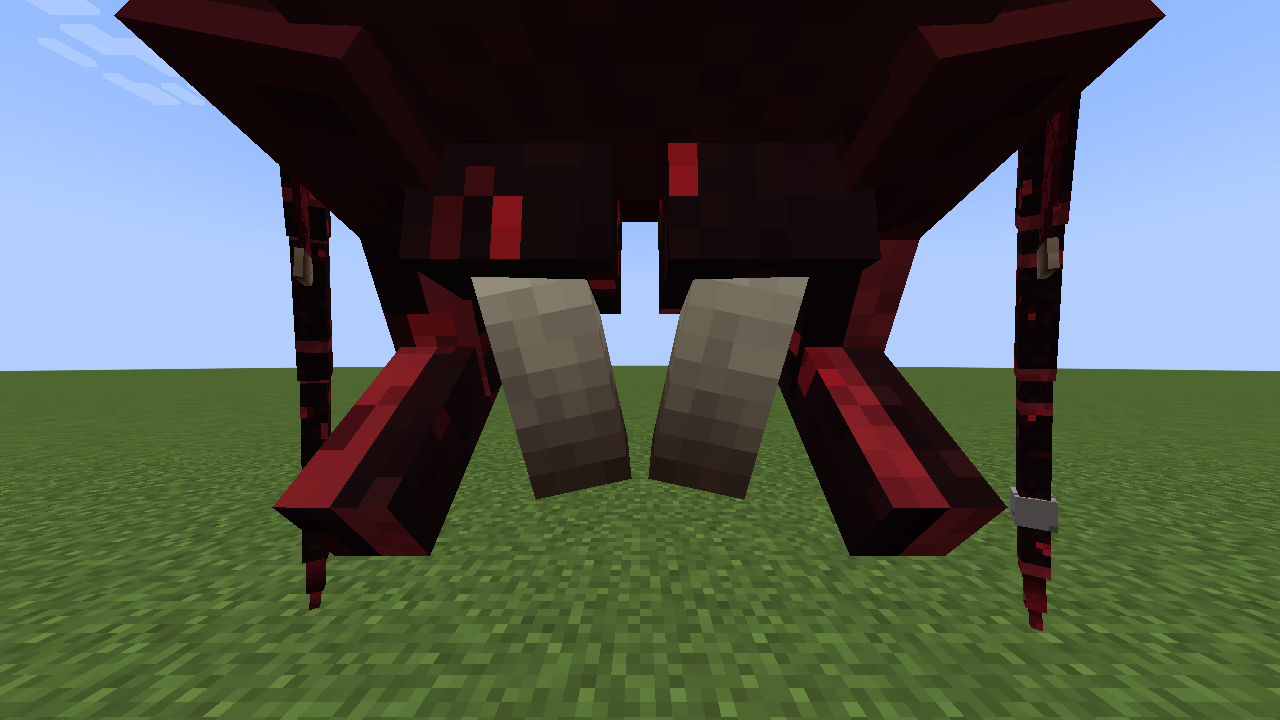
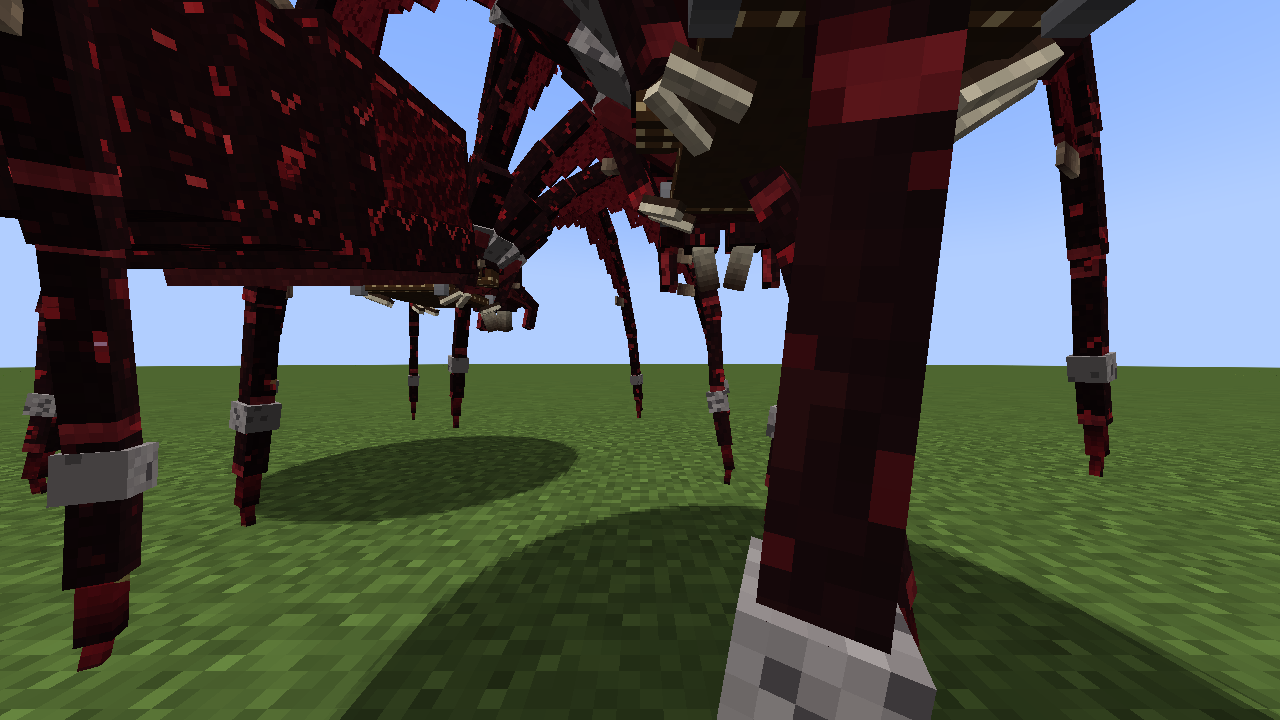
Rider can work from the mount: full-speed mining, clear view, camera bank
- Undo the airborne mining penalty for Gorewidow riders (BreakSpeed, both sides)
- First-person eye sits just ahead of the fangs; legs right next to the rider's eyes are hidden
  from their own first-person view
- Camera rolls with the mount's surface (max 50 degrees, smoothed), N toggles it
- Game test: rider mines stone at on-ground speed; wall-mining POV showcase scene

Claude-Session: https://claude.ai/code/session_016ZKLpemyHd6iPGbbrEQmMZ

diff --git a/src/main/java/com/vladosiwe/gorewidow/client/GorewidowClient.java b/src/main/java/com/vladosiwe/gorewidow/client/GorewidowClient.java
@@ -48,6 +48,10 @@ public final class GorewidowClient {
     public static final KeyMapping KEY_SLINGSHOT = new KeyMapping("key.gorewidow.slingshot", KeyConflictContext.IN_GAME, InputConstants.Type.KEYSYM, GLFW.GLFW_KEY_C, CATEGORY);
     public static final KeyMapping KEY_VISION = new KeyMapping("key.gorewidow.vision", KeyConflictContext.IN_GAME, InputConstants.Type.KEYSYM, GLFW.GLFW_KEY_V, CATEGORY);
     public static final KeyMapping KEY_STANCE = new KeyMapping("key.gorewidow.stance", KeyConflictContext.IN_GAME, InputConstants.Type.KEYSYM, GLFW.GLFW_KEY_B, CATEGORY);
+    public static final KeyMapping KEY_CAMERA_TILT = new KeyMapping("key.gorewidow.camera_tilt", KeyConflictContext.IN_GAME, InputConstants.Type.KEYSYM, GLFW.GLFW_KEY_N, CATEGORY);
+    private static boolean cameraTilt = true;
+    private static float cameraRoll;
+    private static long cameraRollTime;
     private static boolean lastSprint;
     private static boolean manualStance;
     private static boolean lastStance;
@@ -70,6 +74,7 @@ public final class GorewidowClient {
         NeoForge.EVENT_BUS.addListener(GorewidowClient::onRenderPlayerPre);
         NeoForge.EVENT_BUS.addListener(GorewidowClient::onRenderPlayerPost);
         NeoForge.EVENT_BUS.addListener(GorewidowClient::onCameraDistance);
+        NeoForge.EVENT_BUS.addListener(GorewidowClient::onCameraAngles);
         NeoForge.EVENT_BUS.addListener(GorewidowClient::onLogout);
         if (Boolean.getBoolean("gorewidow.showcase")) {
             com.vladosiwe.gorewidow.client.dev.DevShowcase.enable();
@@ -100,6 +105,7 @@ public final class GorewidowClient {
         event.register(KEY_SLINGSHOT);
         event.register(KEY_VISION);
         event.register(KEY_STANCE);
+        event.register(KEY_CAMERA_TILT);
     }
 
     /** Ranged weapons raise the rider into the weapon stance on their own. */
@@ -201,6 +207,11 @@ public final class GorewidowClient {
             while (KEY_STANCE.consumeClick()) {
                 manualStance = !manualStance;
             }
+            while (KEY_CAMERA_TILT.consumeClick()) {
+                cameraTilt = !cameraTilt;
+                player.displayClientMessage(net.minecraft.network.chat.Component.translatable(
+                        cameraTilt ? "message.gorewidow.camera_tilt_on" : "message.gorewidow.camera_tilt_off"), true);
+            }
             boolean stance = manualStance || isRangedWeapon(player.getMainHandItem()) || isRangedWeapon(player.getOffhandItem());
             if (stance != lastStance) {
                 lastStance = stance;
@@ -241,6 +252,7 @@ public final class GorewidowClient {
             lastStance = false;
             manualStance = false;
             while (KEY_STANCE.consumeClick()) { /* not riding */ }
+            while (KEY_CAMERA_TILT.consumeClick()) { /* not riding */ }
             if (!OUTLINED.isEmpty() && player != null) {
                 updateThreatOutlines(mc, player, false);
             }
@@ -347,6 +359,34 @@ public final class GorewidowClient {
         if (mc.player != null) {
             mc.player.playSound(net.minecraft.sounds.SoundEvents.NOTE_BLOCK_FLUTE.value(), 0.6F,
                     order == com.vladosiwe.gorewidow.network.WhistlePayload.Order.STAY ? 0.8F : 1.3F);
+        }
+    }
+
+    /**
+     * The rider's view banks with the mount: on a wall beside you the horizon tilts toward it, on a
+     * slope it leans with the body. Kept within 50 degrees so the view never flips; N turns it off.
+     */
+    private static void onCameraAngles(net.neoforged.neoforge.client.event.ViewportEvent.ComputeCameraAngles event) {
+        Minecraft mc = Minecraft.getInstance();
+        LocalPlayer player = mc.player;
+        float target = 0;
+        if (cameraTilt && player != null && mc.getCameraEntity() == player
+                && player.getVehicle() instanceof GorewidowEntity mount && !mount.isWeaponStance()) {
+            GorewidowRig rig = GorewidowRigs.peek(mount);
+            if (rig != null && rig.isInitialised()) {
+                float yaw = (float) event.getYaw() * Mth.DEG_TO_RAD;
+                Vec3 right = new Vec3(-Mth.cos(yaw), 0, -Mth.sin(yaw));
+                double side = Mth.clamp(rig.up().dot(right), -1, 1);
+                float lift = mount.getMountLift((float) event.getPartialTick());
+                target = Mth.clamp((float) Math.toDegrees(Math.asin(side)), -50, 50) * lift;
+            }
+        }
+        long now = net.minecraft.Util.getMillis();
+        float dt = Math.min(0.1F, (now - cameraRollTime) / 1000.0F);
+        cameraRollTime = now;
+        cameraRoll += (target - cameraRoll) * (1 - (float) Math.exp(-6.0F * dt));
+        if (Math.abs(cameraRoll) > 0.01F) {
+            event.setRoll(event.getRoll() + cameraRoll);
         }
     }
 

diff --git a/src/main/java/com/vladosiwe/gorewidow/client/dev/DevShowcase.java b/src/main/java/com/vladosiwe/gorewidow/client/dev/DevShowcase.java
@@ -174,6 +174,37 @@ public final class DevShowcase {
             c.player.moveTo(w.getX() + 1.5, w.getY(), w.getZ(), 0, 0);
             c.player.startRiding(w, true);
         }, c -> {}, new Vec3(0, 0, 0), new Vec3(0, 0, 0), true));
+        SCENES.add(new Scene("riding_wall_pov", 70, c -> {
+            // an ore wall: the rider hangs under the mount as it clings to it and mines with a pickaxe
+            c.fill(3, 0, -5, 3, 9, 5, Blocks.STONE.defaultBlockState());
+            c.fill(3, 2, -1, 3, 3, 1, Blocks.IRON_ORE.defaultBlockState());
+            c.fill(3, 4, 1, 3, 4, 2, Blocks.DIAMOND_ORE.defaultBlockState());
+            c.fill(3, 3, -3, 3, 4, -2, Blocks.COAL_ORE.defaultBlockState());
+            GorewidowEntity w = c.widow(1.55, 2.5, 0, 270);
+            w.setSurface(Direction.EAST);
+            c.player.setGameMode(GameType.SURVIVAL);
+            w.tame(c.player);
+            w.setHarness(true);
+            c.player.moveTo(w.getX() - 1.0, w.getY(), w.getZ(), 0, 0);
+            c.player.startRiding(w, true);
+            c.player.setItemInHand(net.minecraft.world.InteractionHand.MAIN_HAND,
+                    new net.minecraft.world.item.ItemStack(net.minecraft.world.item.Items.DIAMOND_PICKAXE));
+        }, c -> {
+            net.minecraft.client.player.LocalPlayer local = Minecraft.getInstance().player;
+            if (ticks % 10 == 0) {
+                GorewidowEntity sw = c.first();
+                net.minecraft.world.entity.Entity cw = Minecraft.getInstance().level == null ? null : Minecraft.getInstance().level.getEntity(sw.getId());
+                LOGGER.info("wallpov t={} server surface={} pos={} client surface={} pos={} riding={}", ticks, sw.getSurface(), sw.position(),
+                        cw instanceof GorewidowEntity g ? g.getSurface() : null, cw == null ? null : cw.position(), local == null ? null : local.getVehicle());
+            }
+            if (local != null) {
+                // looking along the wall at the ore, so the view banks with the mount
+                local.setYRot(-75);
+                local.setXRot(-5);
+                local.yRotO = -75;
+                local.xRotO = -5;
+            }
+        }, new Vec3(0, 0, 0), new Vec3(0, 0, 0), true));
         SCENES.add(new Scene("riding_pov", 30, c -> {
             GorewidowEntity w = c.widow(0, 0, 0, 0);
             c.player.setGameMode(GameType.CREATIVE);
@@ -592,7 +623,7 @@ public final class DevShowcase {
         sceneIndex = index;
         ticks = 0;
         Scene scene = SCENES.get(index);
-        mc.options.setCameraType(scene.thirdPerson() && !scene.name().equals("riding_pov") ? CameraType.THIRD_PERSON_BACK : CameraType.FIRST_PERSON);
+        mc.options.setCameraType(scene.thirdPerson() && !scene.name().endsWith("_pov") ? CameraType.THIRD_PERSON_BACK : CameraType.FIRST_PERSON);
         server.execute(() -> {
             ServerLevel level = server.overworld();
             ServerPlayer player = server.getPlayerList().getPlayers().get(0);

diff --git a/src/main/java/com/vladosiwe/gorewidow/client/GorewidowRig.java b/src/main/java/com/vladosiwe/gorewidow/client/GorewidowRig.java
@@ -437,9 +437,17 @@ public final class GorewidowRig {
         }
         net.minecraft.world.phys.AABB grabBox = grabbed != null
                 ? grabbed.getBoundingBox().move(grabbed.getPosition(partial).subtract(grabbed.position())) : null;
+        // seen from the rider's own eyes, a leg planted right next to the camera would fill the view:
+        // such legs are left out of the rider's first-person view (everyone else still sees them)
+        net.minecraft.client.Minecraft mc = net.minecraft.client.Minecraft.getInstance();
+        Vec3 riderCamera = mc.player != null && mc.player.getVehicle() == widow && mc.options.getCameraType().isFirstPerson()
+                ? mc.gameRenderer.getMainCamera().getPosition() : null;
         for (int i = 0; i < LEGS; i++) {
             String name = GorewidowAnatomy.LEG_NAMES[i];
             GeoBone coxa = model.getBone(name + "_coxa").orElse(null);
+            if (coxa != null) {
+                coxa.setHidden(riderCamera != null && this.legNearCamera(i, riderCamera));
+            }
             GeoBone femur = model.getBone(name + "_femur").orElse(null);
             GeoBone tibia = model.getBone(name + "_tibia").orElse(null);
             GeoBone tarsus = model.getBone(name + "_tarsus").orElse(null);
@@ -642,6 +650,24 @@ public final class GorewidowRig {
         double ky = femur * Math.sin(ef);
         double et = Math.atan2(ty - ky, tx - kx);
         return new float[]{(float) psi, (float) ef, (float) (et - ef), (float) (te - et)};
+    }
+
+    private boolean legNearCamera(int leg, Vec3 camera) {
+        float[] hip = GorewidowAnatomy.HIP[leg];
+        Vec3 h = this.modelToWorld(hip[0], hip[1], hip[2]);
+        Vec3 f = this.footRender[leg];
+        if (f == null) {
+            return false;
+        }
+        Vec3 knee = h.lerp(f, 0.4).add(new Vec3(this.up).scale(GorewidowAnatomy.HIP_HEIGHT * 0.06 * this.scale));
+        double reach = 0.8 * this.scale;
+        return distanceToSegment(camera, h, knee) < reach || distanceToSegment(camera, knee, f) < reach;
+    }
+
+    private static double distanceToSegment(Vec3 p, Vec3 a, Vec3 b) {
+        Vec3 ab = b.subtract(a);
+        double t = Mth.clamp(p.subtract(a).dot(ab) / Math.max(1.0E-6, ab.lengthSqr()), 0, 1);
+        return p.distanceTo(a.add(ab.scale(t)));
     }
 
     /** Two-bone solve for a clasper, the hand hooked inward at a fixed elevation. */

diff --git a/src/main/java/com/vladosiwe/gorewidow/gametest/GorewidowGameTests.java b/src/main/java/com/vladosiwe/gorewidow/gametest/GorewidowGameTests.java
@@ -457,6 +457,27 @@ public final class GorewidowGameTests {
     }
 
     @GameTest(template = "arena", timeoutTicks = 120)
+    public static void riderMinesAtFullSpeed(GameTestHelper helper) {
+        GorewidowEntity widow = spawnInert(helper, new Vec3(8, FLOOR, 8));
+        @SuppressWarnings("removal")
+        ServerPlayer player = helper.makeMockServerPlayerInLevel();
+        player.moveTo(widow.getX() + 2, widow.getY(), widow.getZ());
+        widow.tame(player);
+        widow.mobInteract(player, InteractionHand.MAIN_HAND);
+        helper.runAfterDelay(GorewidowEntity.MOUNT_TICKS + 4, () -> {
+            helper.assertTrue(player.getVehicle() == widow, "player did not mount");
+            player.setItemInHand(InteractionHand.MAIN_HAND, new net.minecraft.world.item.ItemStack(net.minecraft.world.item.Items.IRON_PICKAXE));
+            helper.assertFalse(player.onGround(), "a hanging rider is not on the ground");
+            // iron pickaxe on stone: 6.0 standing on the ground, vanilla would give 1.2 in the air
+            float speed = player.getDigSpeed(net.minecraft.world.level.block.Blocks.STONE.defaultBlockState(), null);
+            helper.assertTrue(speed > 5.9F, "rider mines too slowly: " + speed);
+            player.stopRiding();
+            player.discard();
+            helper.succeed();
+        });
+    }
+
+    @GameTest(template = "arena", timeoutTicks = 120)
     public static void riderHangsUnderTheBelly(GameTestHelper helper) {
         GorewidowEntity widow = spawnInert(helper, new Vec3(8, FLOOR, 8));
         @SuppressWarnings("removal")

diff --git a/tools/gen_assets.py b/tools/gen_assets.py
@@ -371,6 +371,9 @@ en = {
     "message.gorewidow.command.wander": "Wander",
     "message.gorewidow.controls": "[%s] web  [%s] bite  [%s]/[%s] reel  [%s] leap, hold: parachute  [%s] slingshot  [%s] vision  [%s] weapon stance",
     "key.gorewidow.stance": "Weapon stance (rear up, use items)",
+    "key.gorewidow.camera_tilt": "Tilt camera with the mount",
+    "message.gorewidow.camera_tilt_on": "Camera tilts with the mount",
+    "message.gorewidow.camera_tilt_off": "Camera stays level",
     "subtitles.gorewidow.ambient": "Gorewidow chitters",
     "subtitles.gorewidow.hurt": "Gorewidow hurts",
     "subtitles.gorewidow.death": "Gorewidow dies",
@@ -526,6 +529,9 @@ ru = {
     "message.gorewidow.command.wander": "Бродить",
     "message.gorewidow.controls": "[%s] паутина  [%s] укус  [%s]/[%s] трос  [%s] прыжок, держать: парашют  [%s] рогатка  [%s] зрение  [%s] боевая стойка",
     "key.gorewidow.stance": "Боевая стойка (встать на лапы, оружие)",
+    "key.gorewidow.camera_tilt": "Наклон камеры вместе с пауком",
+    "message.gorewidow.camera_tilt_on": "Камера наклоняется вместе с пауком",
+    "message.gorewidow.camera_tilt_off": "Камера держит горизонт",
     "subtitles.gorewidow.ambient": "Кровавая вдова стрекочет",
     "subtitles.gorewidow.hurt": "Кровавая вдова ранена",
     "subtitles.gorewidow.death": "Кровавая вдова погибает",

diff --git a/src/main/java/com/vladosiwe/gorewidow/Gorewidow.java b/src/main/java/com/vladosiwe/gorewidow/Gorewidow.java
@@ -37,6 +37,7 @@ public final class Gorewidow {
         modBus.addListener(Gorewidow::onSpawnPlacements);
         modBus.addListener(ModNetwork::register);
         NeoForge.EVENT_BUS.addListener(Gorewidow::onIncomingDamage);
+        NeoForge.EVENT_BUS.addListener(Gorewidow::onBreakSpeed);
         NeoForge.EVENT_BUS.addListener(Gorewidow::onLivingDeath);
         com.vladosiwe.gorewidow.dev.DevServerHooks.register();
     }
@@ -77,6 +78,17 @@ public final class Gorewidow {
     }
 
     /** A rider strapped under the belly is shielded from suffocation and fall damage of its mount's acrobatics. */
+    /**
+     * A rider hanging under a Gorewidow is never "on the ground", so vanilla would make them mine five
+     * times slower. They are held firmly by the claspers: undo that penalty (both sides compute it).
+     */
+    private static void onBreakSpeed(net.neoforged.neoforge.event.entity.player.PlayerEvent.BreakSpeed event) {
+        net.minecraft.world.entity.player.Player player = event.getEntity();
+        if (player.getVehicle() instanceof com.vladosiwe.gorewidow.entity.GorewidowEntity && !player.onGround()) {
+            event.setNewSpeed(event.getNewSpeed() * 5.0F);
+        }
+    }
+
     private static void onIncomingDamage(LivingIncomingDamageEvent event) {
         // imprint bonus: an imprinted Gorewidow ridden by its imprinter hits harder and takes less
         if (event.getSource().getEntity() instanceof GorewidowEntity attacker

diff --git a/src/main/java/com/vladosiwe/gorewidow/entity/GorewidowEntity.java b/src/main/java/com/vladosiwe/gorewidow/entity/GorewidowEntity.java
@@ -2235,9 +2235,13 @@ public class GorewidowEntity extends TamableAnimal implements GeoEntity, PlayerR
         move.accept(passenger, eye.x, eye.y - eyeHeight, eye.z);
     }
 
-    /** Where the rider's eyes sit: under the thorax, between belly and surface. */
+    /**
+     * Where the rider's eyes (and so their first-person view, reach and aim) sit: just ahead of and
+     * below the fangs, so nothing of the mount blocks the view while they mine, build or fight. The
+     * hanging body is drawn separately (see the client rider pose).
+     */
     public Vec3 getRiderEyePos() {
-        return this.modelToWorld(0, GorewidowAnatomy.BODY_HEIGHT - 10.0F, -8.0F);
+        return this.modelToWorld(0, GorewidowAnatomy.BODY_HEIGHT - 17.0F, -23.0F);
     }
 
     @Override

diff --git a/README.md b/README.md
@@ -151,8 +151,18 @@ takes 35% less damage and the mount carries 60 more weight.
 | G | Bite what you look at. Biting a webbed or wounded target starts a blood drain that heals the mount |
 | V | Toggle **spider vision** |
 | B | **Weapon stance**: it rears up almost vertically on its hind legs and holds you high up and out in front, cradled in its front legs, so you can shoot, fight and use any item. Turns on by itself when you hold a bow, crossbow or trident, or anything in the `gorewidow:mounted_weapons` tag (for modded guns or staves). It moves at half speed, its web, bite and slingshot are put away, and your projectiles fly past it |
+| N | Tilt the camera with the mount on/off |
 | Sprint key | Sprint (costs stamina) |
 | Shift | Dismount |
+
+**Using it as a work mount.** Hanging under it, you keep your hands free:
+- **Mine and build** from any surface: walls, ceilings, cliff faces. The usual "not on the ground"
+  mining penalty does not apply to its rider, so ore breaks as fast as when you stand.
+- **Use anything**: open your inventory (E), read books, open chests, place blocks, eat. Your
+  first-person view sits just ahead of its fangs, so its head never blocks the view, and a leg
+  planted right next to your eyes is left out of your own view.
+- **Your view banks with it**: on a wall or slope the horizon tilts with the body (up to 50
+  degrees, smoothly). **N** toggles this.
 
 Passives, after ARK's Bloodstalker:
 - **Yanks riders off their mounts.** A wild Gorewidow's web pulls a mounted player out of the saddle.
@@ -188,7 +198,7 @@ The mod is fully translated into Russian (`ru_ru`); every in-game string has an 
 ```
 ./gradlew build               # build the jar
 ./gradlew runClient           # play
-./gradlew runGameTestServer   # 20 game tests (incl. weapon stance): clinging, climbing, swing physics, tethering,
+./gradlew runGameTestServer   # 21 game tests (incl. weapon stance): clinging, climbing, swing physics, tethering,
                               # slingshot, water walking, trust, feeding-tame, level-ups, cargo,
                               # mount sequence, riding underneath, rider drain, mating and eggs,
                               # incubation and hatching, imprinting, pulling riders off mounts
